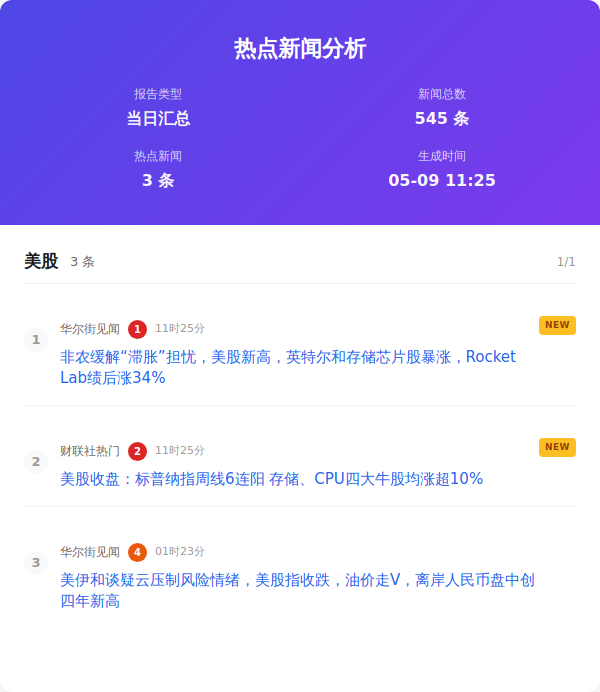
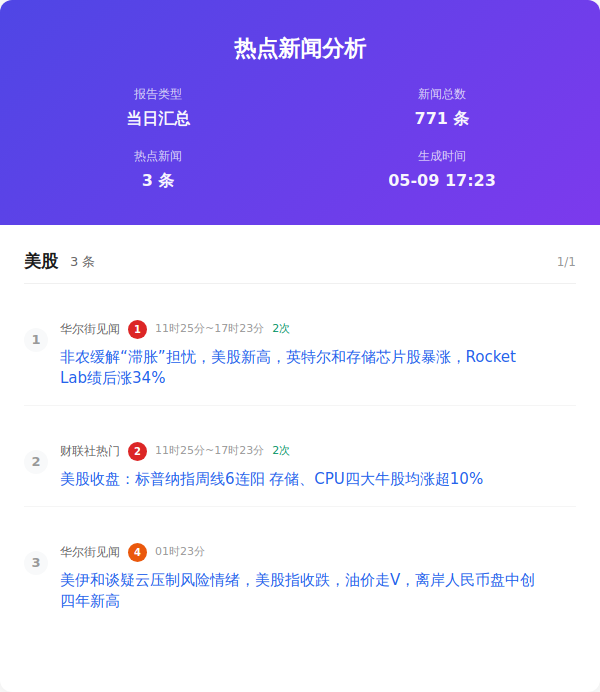
Auto update by GitHub Actions at Sat May  9 17:23:25 CST 2026

diff --git a/output/2026年05月09日/html/当日汇总.html b/output/2026年05月09日/html/当日汇总.html
@@ -357,7 +357,7 @@
                     </div>
                     <div class="info-item">
                         <span class="info-label">新闻总数</span>
-                        <span class="info-value">545 条</span>
+                        <span class="info-value">771 条</span>
                     </div>
                     <div class="info-item">
                         <span class="info-label">热点新闻</span>
@@ -365,7 +365,7 @@
                     </div>
                     <div class="info-item">
                         <span class="info-label">生成时间</span>
-                        <span class="info-value">05-09 11:25</span>
+                        <span class="info-value">05-09 17:23</span>
                     </div>
                 </div>
             </div>
@@ -379,21 +379,21 @@
                         </div>
                         <div class="word-index">1/1</div>
                     </div>
-                    <div class="news-item new">
+                    <div class="news-item ">
                         <div class="news-number">1</div>
                         <div class="news-content">
                             <div class="news-header">
-                                <span class="source-name">华尔街见闻</span><span class="rank-num top">1</span><span class="time-info">11时25分</span>
+                                <span class="source-name">华尔街见闻</span><span class="rank-num top">1</span><span class="time-info">11时25分~17时23分</span><span class="count-info">2次</span>
                             </div>
                             <div class="news-title"><a href="https://wallstreetcn.com/articles/3771825" target="_blank" class="news-link">非农缓解“滞胀”担忧，美股新高，英特尔和存储芯片股暴涨，Rocket Lab绩后涨34%</a>
                             </div>
                         </div>
                     </div>
-                    <div class="news-item new">
+                    <div class="news-item ">
                         <div class="news-number">2</div>
                         <div class="news-content">
                             <div class="news-header">
-                                <span class="source-name">财联社热门</span><span class="rank-num top">2</span><span class="time-info">11时25分</span>
+                                <span class="source-name">财联社热门</span><span class="rank-num top">2</span><span class="time-info">11时25分~17时23分</span><span class="count-info">2次</span>
                             </div>
                             <div class="news-title"><a href="https://www.cls.cn/detail/2366633" target="_blank" class="news-link">美股收盘：标普纳指周线6连阳 存储、CPU四大牛股均涨超10%</a>
                             </div>